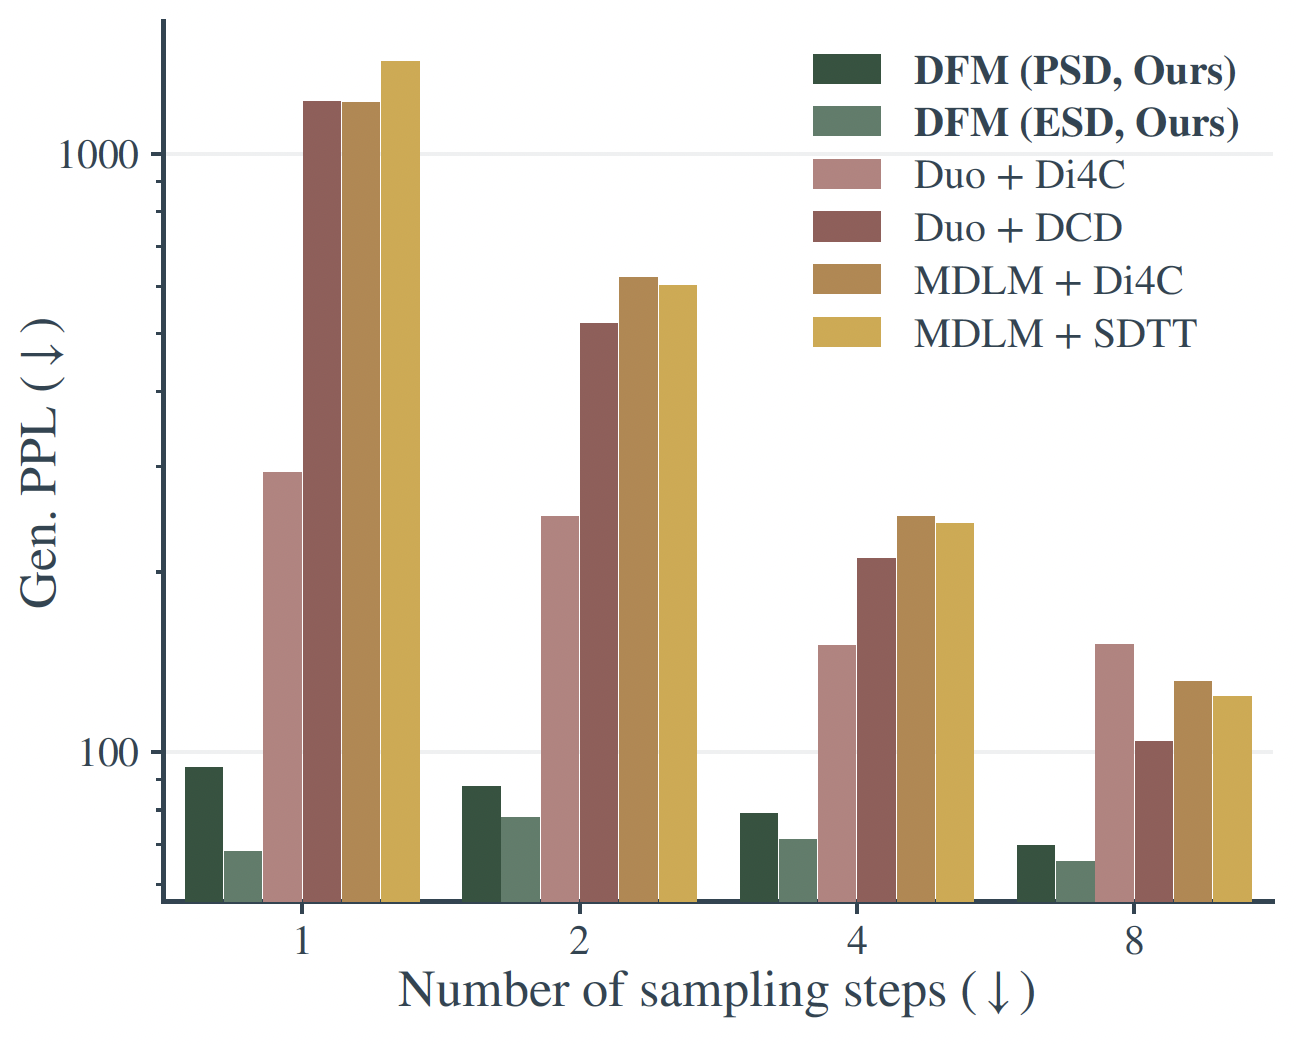
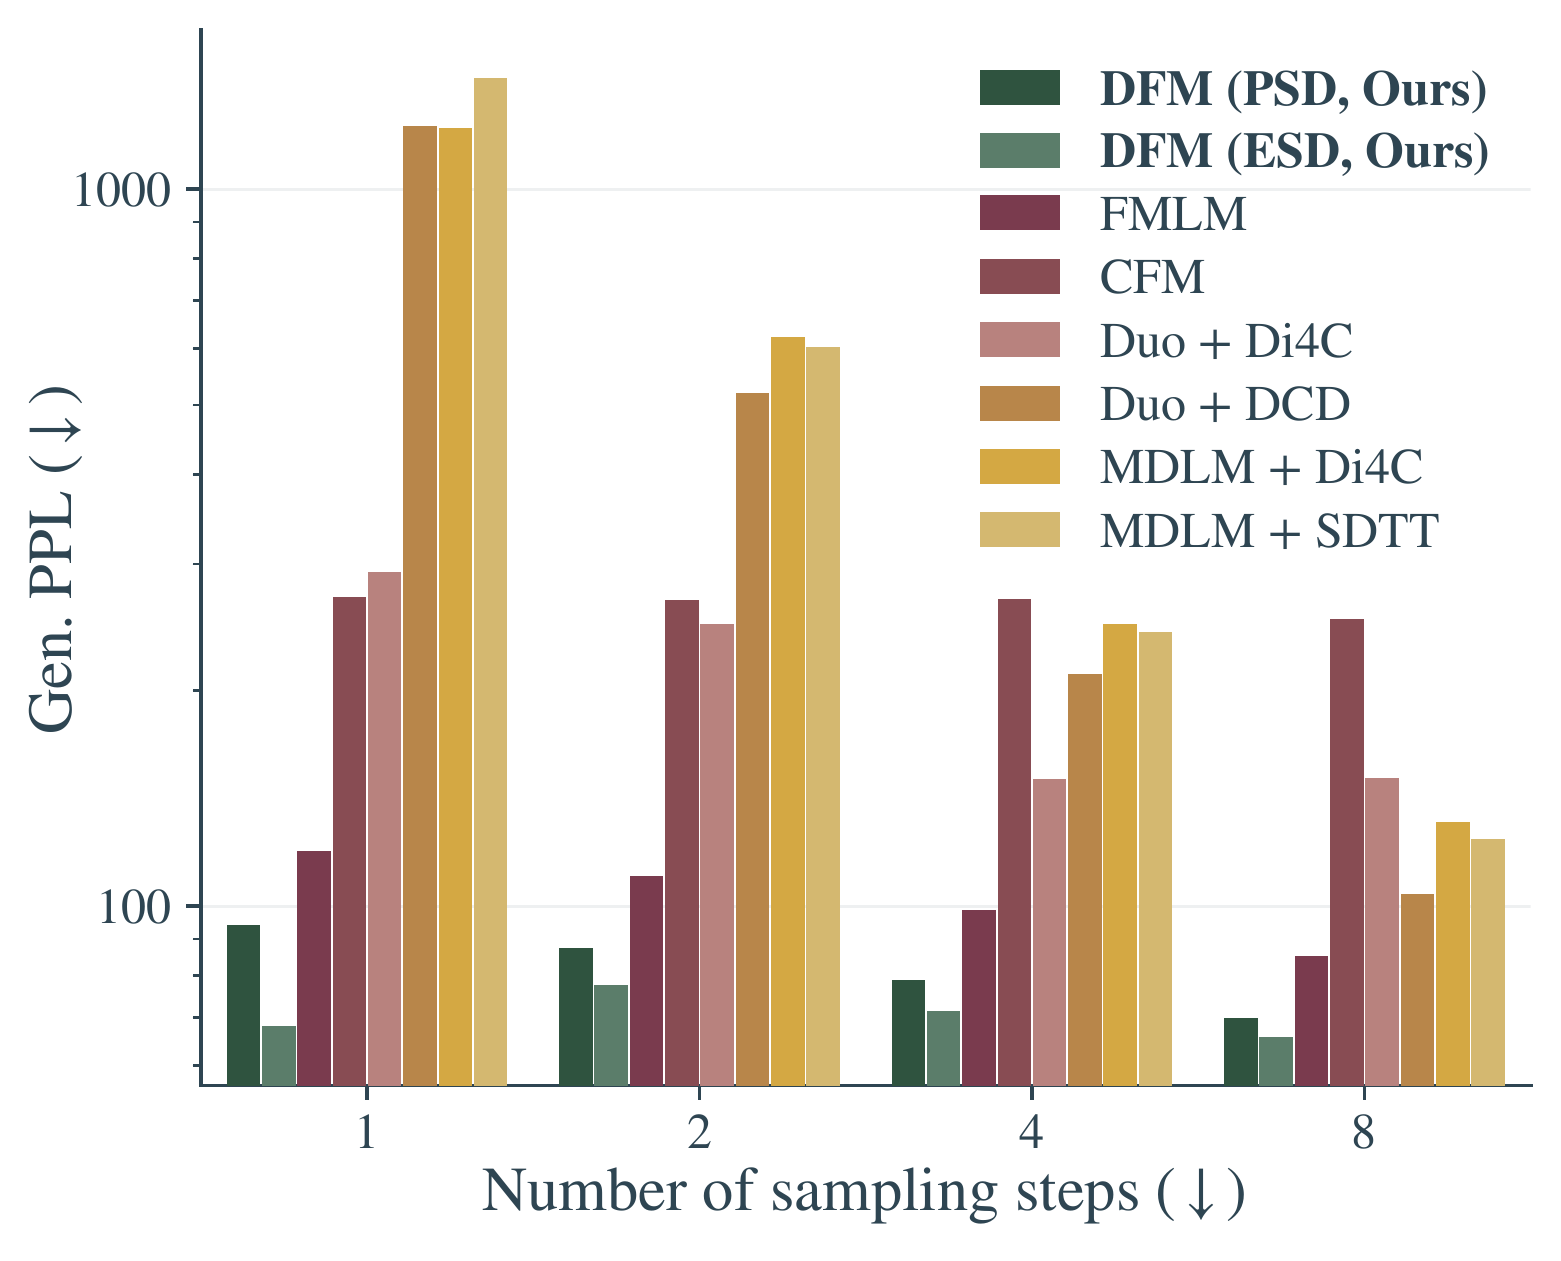
Sync results tables and hero figure with paper
Update Table 1 numbers to match paper, add CFM and FMLM baselines,
swap Table 2/3 numbering to align with paper, and refresh the LM1B
few-step bar chart.

diff --git a/index.html b/index.html
@@ -685,36 +685,42 @@
       <div class="results-tables tables-row">
         <div class="tables-row__col">
           <h3>Table 1: Few-Step Comparison</h3>
-          <p class="table-caption">Gen. PPL (&darr;) and entropy at 1, 2, 4 NFEs. Dataset PPLs: 53.83 (LM1B), 14.49 (OWT).</p>
+          <p class="table-caption">Generative perplexity (&darr;) and entropy (&uarr;) across NFEs for LM1B and OWT.</p>
           <div class="table-scroll">
             <table>
               <thead>
                 <tr><th>Dataset</th><th>Method</th><th>Metric</th><th>1</th><th>2</th><th>4</th></tr>
               </thead>
               <tbody>
-                <tr><td>LM1B</td><td>Duo + DCD</td><td>PPL</td><td>180.02</td><td>146.67</td><td>118.40</td></tr>
-                <tr><td></td><td></td><td>Ent.</td><td>3.14</td><td>3.65</td><td>3.94</td></tr>
+                <tr><td>LM1B</td><td>Duo + DCD</td><td>PPL</td><td>1224.52</td><td>520.08</td><td>210.88</td></tr>
+                <tr><td></td><td></td><td>Ent.</td><td>4.33</td><td>4.20</td><td>4.23</td></tr>
                 <tr><td></td><td>Duo + Di4C</td><td>PPL</td><td>292.94</td><td>247.69</td><td>150.67</td></tr>
                 <tr><td></td><td></td><td>Ent.</td><td>3.79</td><td>3.87</td><td>4.00</td></tr>
-                <tr><td></td><td>MDLM + SDTT</td><td>PPL</td><td>1429</td><td>602.14</td><td>241.01</td></tr>
+                <tr><td></td><td>MDLM + SDTT</td><td>PPL</td><td>1429.48</td><td>602.14</td><td>241.01</td></tr>
                 <tr><td></td><td></td><td>Ent.</td><td>4.31</td><td>4.28</td><td>4.28</td></tr>
-                <tr><td></td><td>MDLM + Di4C</td><td>PPL</td><td>1217</td><td>621.59</td><td>247.32</td></tr>
+                <tr><td></td><td>MDLM + Di4C</td><td>PPL</td><td>1217.10</td><td>621.59</td><td>247.32</td></tr>
                 <tr><td></td><td></td><td>Ent.</td><td>4.38</td><td>4.37</td><td>4.00</td></tr>
+                <tr><td></td><td>CFM</td><td>PPL</td><td>269.72</td><td>267.39</td><td>267.97</td></tr>
+                <tr><td></td><td></td><td>Ent.</td><td>3.10</td><td>3.15</td><td>3.28</td></tr>
+                <tr><td></td><td>FMLM</td><td>PPL</td><td>119.34</td><td>110.19</td><td>98.76</td></tr>
+                <tr><td></td><td></td><td>Ent.</td><td>4.16</td><td>4.21</td><td>4.21</td></tr>
                 <tr class="ours"><td></td><td><strong>DFM (PSD)</strong></td><td>PPL</td><td>94.08</td><td>87.42</td><td>78.89</td></tr>
                 <tr class="ours"><td></td><td></td><td>Ent.</td><td>4.06</td><td>4.08</td><td>4.10</td></tr>
                 <tr class="ours"><td></td><td><strong>DFM (ESD)</strong></td><td>PPL</td><td><strong>68.11</strong></td><td><strong>77.60</strong></td><td><strong>71.53</strong></td></tr>
                 <tr class="ours"><td></td><td></td><td>Ent.</td><td>3.79</td><td>4.11</td><td>4.13</td></tr>
-                <tr class="dataset-sep"><td>OWT</td><td>Duo + DCD</td><td>PPL</td><td><strong>47.13</strong></td><td>96.59</td><td>108.21</td></tr>
-                <tr><td></td><td></td><td>Ent.</td><td>2.80</td><td>3.77</td><td>4.82</td></tr>
-                <tr><td></td><td>Duo + Di4C</td><td>PPL</td><td>97.77</td><td>165.81</td><td>150.67</td></tr>
-                <tr><td></td><td></td><td>Ent.</td><td>3.36</td><td>4.65</td><td>4.81</td></tr>
-                <tr><td></td><td>MDLM + SDTT</td><td>PPL</td><td>1261</td><td>877.22</td><td>339.73</td></tr>
+                <tr class="dataset-sep"><td>OWT</td><td>Duo + DCD</td><td>PPL</td><td>5743.29</td><td>891.16</td><td>250.86</td></tr>
+                <tr><td></td><td></td><td>Ent.</td><td>6.02</td><td>5.41</td><td>5.37</td></tr>
+                <tr><td></td><td>Duo + Di4C</td><td>PPL</td><td>370.51</td><td>210.22</td><td>154.67</td></tr>
+                <tr><td></td><td></td><td>Ent.</td><td>3.92</td><td>4.63</td><td>4.85</td></tr>
+                <tr><td></td><td>MDLM + SDTT</td><td>PPL</td><td>1260.86</td><td>877.22</td><td>339.73</td></tr>
                 <tr><td></td><td></td><td>Ent.</td><td>5.26</td><td>5.34</td><td>5.38</td></tr>
-                <tr><td></td><td>MDLM + Di4C</td><td>PPL</td><td>1299</td><td>758.23</td><td>239.27</td></tr>
+                <tr><td></td><td>MDLM + Di4C</td><td>PPL</td><td>1298.80</td><td>758.23</td><td>239.27</td></tr>
                 <tr><td></td><td></td><td>Ent.</td><td>5.29</td><td>5.35</td><td>5.40</td></tr>
+                <tr><td></td><td>FMLM</td><td>PPL</td><td>168.30</td><td>133.29</td><td>111.31</td></tr>
+                <tr><td></td><td></td><td>Ent.</td><td>5.17</td><td>5.25</td><td>5.26</td></tr>
                 <tr class="ours"><td></td><td><strong>DFM (PSD)</strong></td><td>PPL</td><td>180.29</td><td>152.83</td><td>122.32</td></tr>
                 <tr class="ours"><td></td><td></td><td>Ent.</td><td>4.91</td><td>5.03</td><td>5.10</td></tr>
-                <tr class="ours"><td></td><td><strong>DFM (ESD)</strong></td><td>PPL</td><td>5.33</td><td><strong>108.91</strong></td><td><strong>77.08</strong></td></tr>
+                <tr class="ours"><td></td><td><strong>DFM (ESD)</strong></td><td>PPL</td><td><strong>5.33</strong></td><td><strong>108.91</strong></td><td><strong>77.08</strong></td></tr>
                 <tr class="ours"><td></td><td></td><td>Ent.</td><td>0.26</td><td>5.15</td><td>5.27</td></tr>
               </tbody>
             </table>
@@ -722,32 +728,32 @@
         </div>
 
         <div class="tables-row__col">
-          <h3>Table 2: Distillation Ablation</h3>
-          <p class="table-caption">Gen. PPL (&darr;) / entropy across NFEs. Each cell: PPL (top), entropy (bottom).</p>
+          <h3>Table 3: Distillation Ablation</h3>
+          <p class="table-caption">Generative perplexity (&darr;) and entropy (&uarr;) across NFEs.</p>
           <div class="table-scroll">
             <table>
               <thead>
                 <tr><th>Dataset</th><th>Stage</th><th>1</th><th>2</th><th>4</th><th>8</th><th>16</th><th>128</th><th>256</th><th>1024</th></tr>
               </thead>
               <tbody>
-                <tr><td>LM1B</td><td>Diagonal</td><td>2.05</td><td>69.59</td><td>204</td><td>125</td><td>102</td><td>75.82</td><td>72.75</td><td>68.33</td></tr>
+                <tr><td>LM1B</td><td>Diagonal</td><td>2.05</td><td>69.59</td><td>204.13</td><td>124.64</td><td>101.89</td><td>75.82</td><td>72.75</td><td>68.33</td></tr>
                 <tr><td></td><td></td><td>0.76</td><td>2.87</td><td>4.37</td><td>4.32</td><td>4.27</td><td>4.19</td><td>4.17</td><td>4.16</td></tr>
                 <tr class="ours"><td></td><td><strong>+ PSD</strong></td><td>94.08</td><td>87.42</td><td>78.89</td><td>69.90</td><td>64.90</td><td>58.38</td><td>56.59</td><td>56.31</td></tr>
                 <tr class="ours"><td></td><td></td><td>4.06</td><td>4.08</td><td>4.10</td><td>4.10</td><td>4.11</td><td>4.10</td><td>4.10</td><td>4.11</td></tr>
                 <tr class="ours"><td></td><td><strong>+ ESD</strong></td><td>68.11</td><td>77.60</td><td>71.53</td><td>65.61</td><td>59.92</td><td>55.70</td><td>56.88</td><td>58.27</td></tr>
                 <tr class="ours"><td></td><td></td><td>3.79</td><td>4.11</td><td>4.13</td><td>4.13</td><td>4.13</td><td>4.11</td><td>4.12</td><td>4.12</td></tr>
-                <tr class="dataset-sep"><td>OWT</td><td>Diagonal</td><td>29.79</td><td>9.90</td><td>56.03</td><td>181</td><td>122</td><td>61.92</td><td>55.63</td><td>47.07</td></tr>
+                <tr class="dataset-sep"><td>OWT</td><td>Diagonal</td><td>29.79</td><td>9.90</td><td>56.03</td><td>180.79</td><td>122.20</td><td>61.92</td><td>55.63</td><td>47.07</td></tr>
                 <tr><td></td><td></td><td>1.55</td><td>0.91</td><td>2.84</td><td>5.20</td><td>5.52</td><td>5.28</td><td>5.22</td><td>5.12</td></tr>
-                <tr class="ours"><td></td><td><strong>+ PSD</strong></td><td>180</td><td>153</td><td>122</td><td>98.54</td><td>82.51</td><td>56.00</td><td>51.81</td><td>47.82</td></tr>
+                <tr class="ours"><td></td><td><strong>+ PSD</strong></td><td>180.29</td><td>152.83</td><td>122.32</td><td>98.54</td><td>82.51</td><td>56.00</td><td>51.81</td><td>47.82</td></tr>
                 <tr class="ours"><td></td><td></td><td>4.91</td><td>5.03</td><td>5.10</td><td>5.11</td><td>5.09</td><td>5.00</td><td>4.97</td><td>4.97</td></tr>
-                <tr class="ours"><td></td><td><strong>+ ESD</strong></td><td>5.33</td><td>109</td><td>77.08</td><td>62.98</td><td>55.03</td><td>41.90</td><td>39.08</td><td>36.48</td></tr>
+                <tr class="ours"><td></td><td><strong>+ ESD</strong></td><td>5.33</td><td>108.91</td><td>77.08</td><td>62.98</td><td>55.03</td><td>41.90</td><td>39.08</td><td>36.48</td></tr>
                 <tr class="ours"><td></td><td></td><td>0.26</td><td>5.15</td><td>5.27</td><td>5.23</td><td>5.18</td><td>5.04</td><td>5.00</td><td>4.95</td></tr>
               </tbody>
             </table>
           </div>
 
-          <h3>Table 3: Classifier-Free Guidance</h3>
-          <p class="table-caption">Gen. PPL (&darr;) and entropy across CFG scales &omega;. Four blocks of 256 tokens, 1024 steps each.</p>
+          <h3>Table 2: Classifier-Free Guidance</h3>
+          <p class="table-caption">Gen. PPL (&darr;) and entropy (&uarr;) across CFG scales &omega;. Samples generated in four blocks of 256 tokens, each with 1024 steps.</p>
           <div class="table-scroll">
             <table class="table--compact">
               <thead><tr><th>&omega;</th><th>Gen. PPL &darr;</th><th>Entropy</th></tr></thead>
